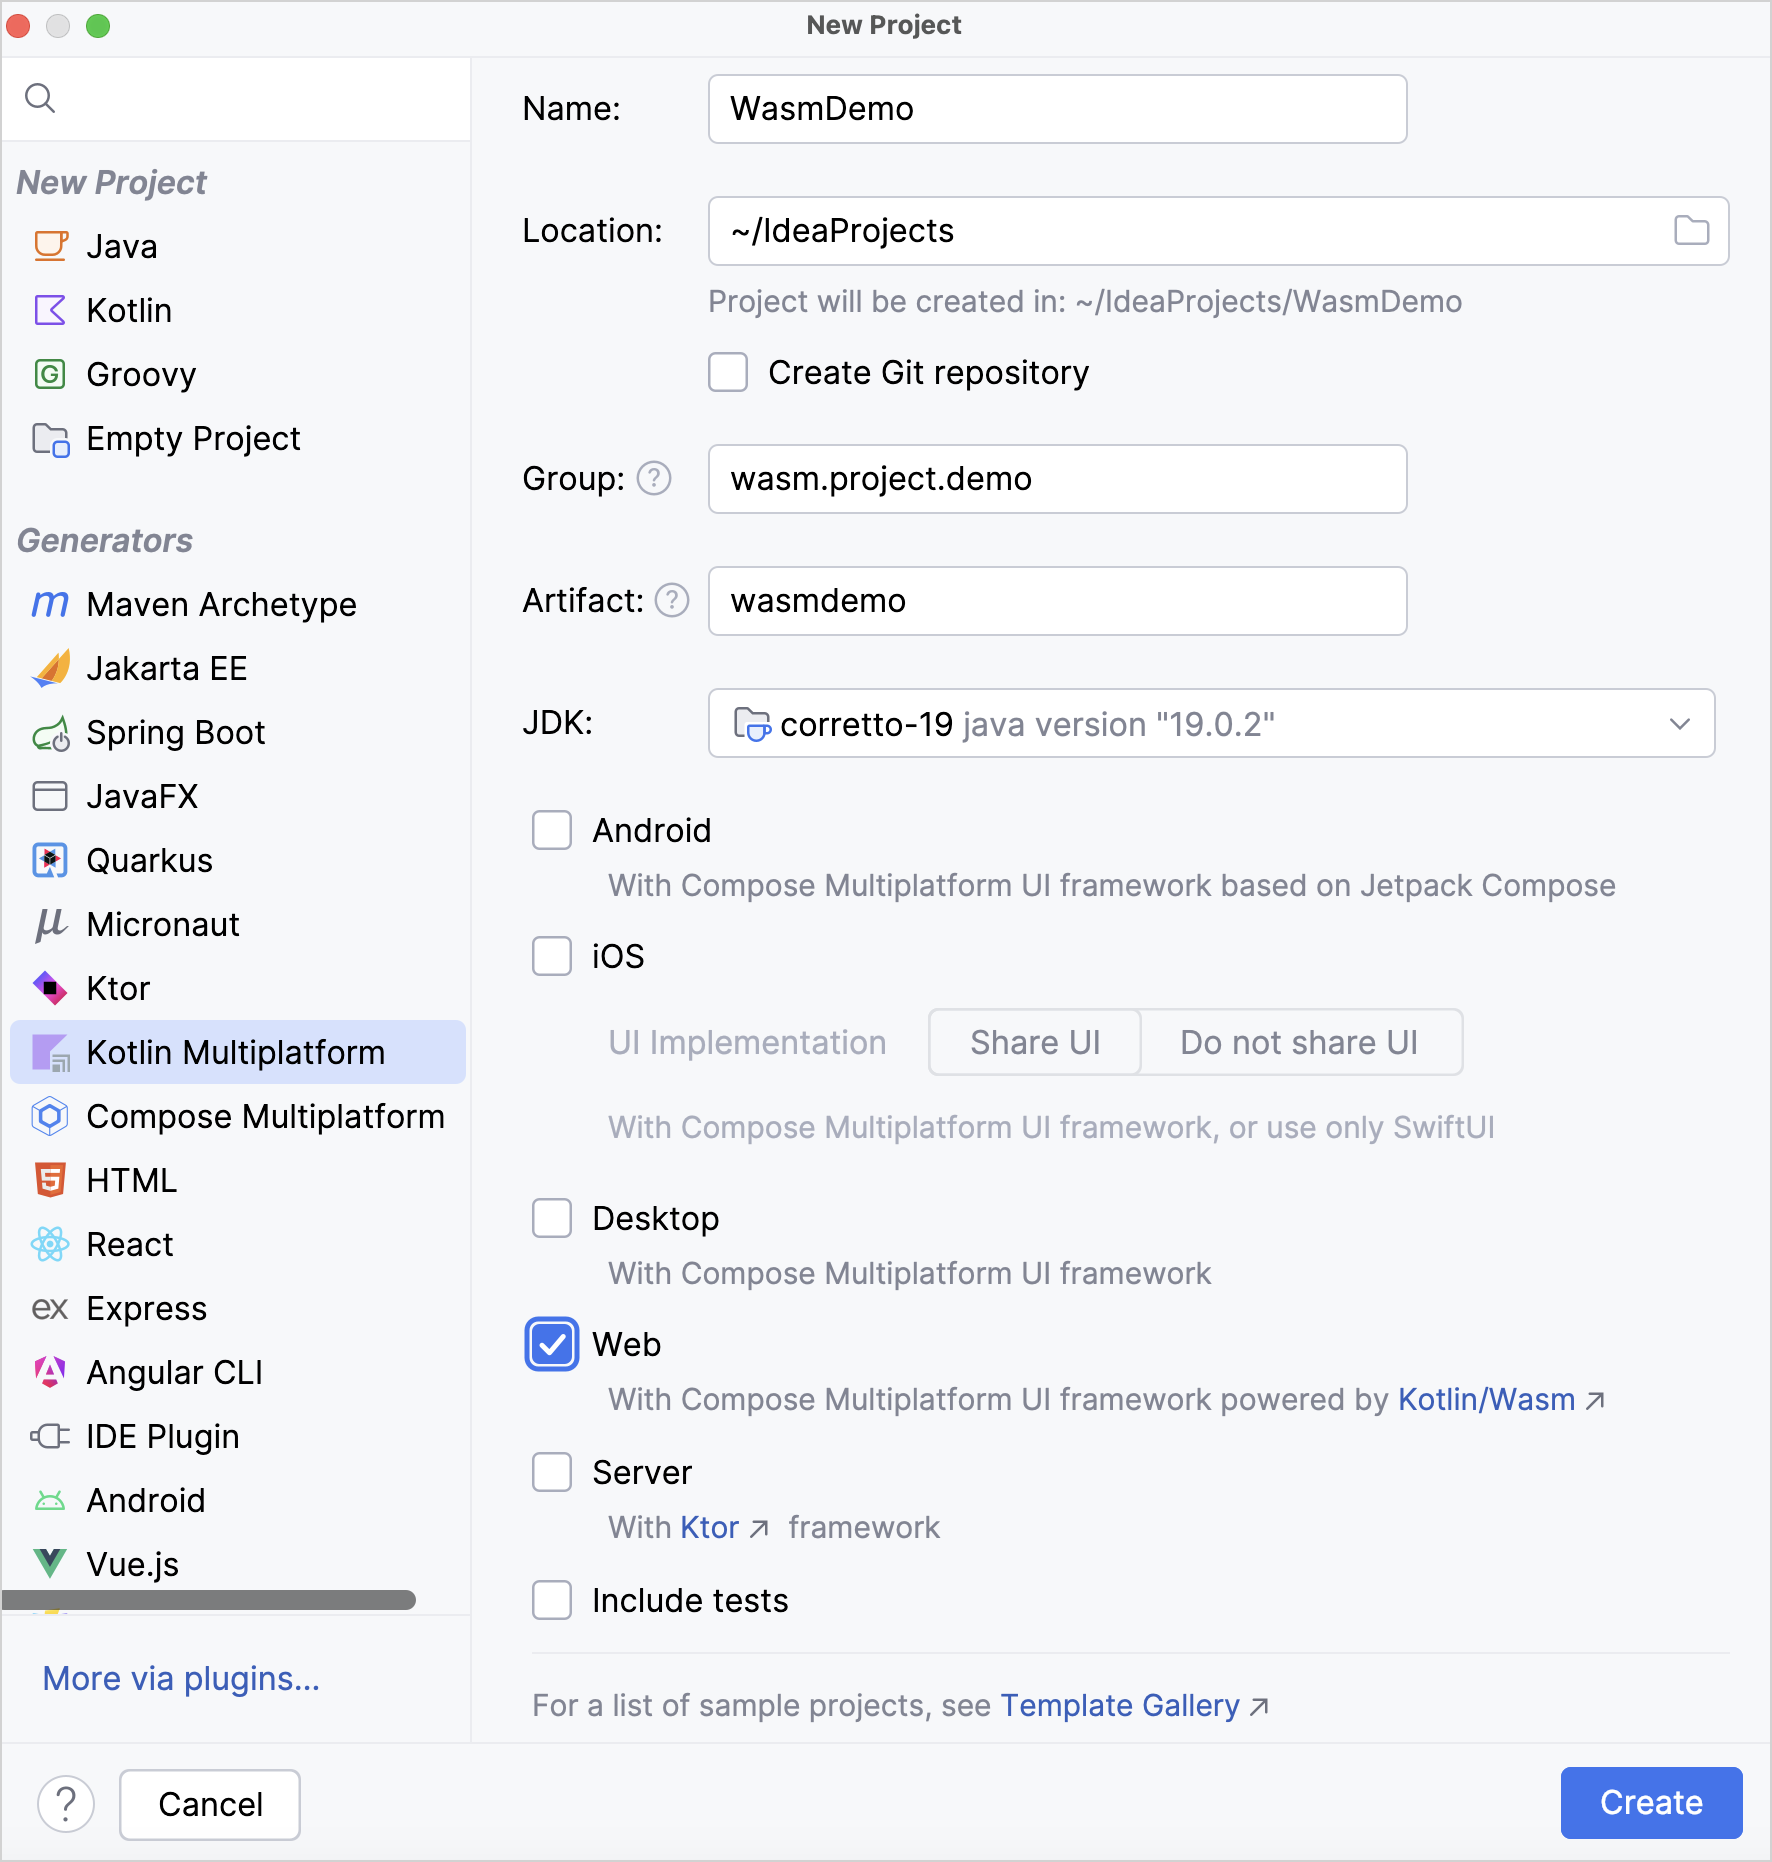
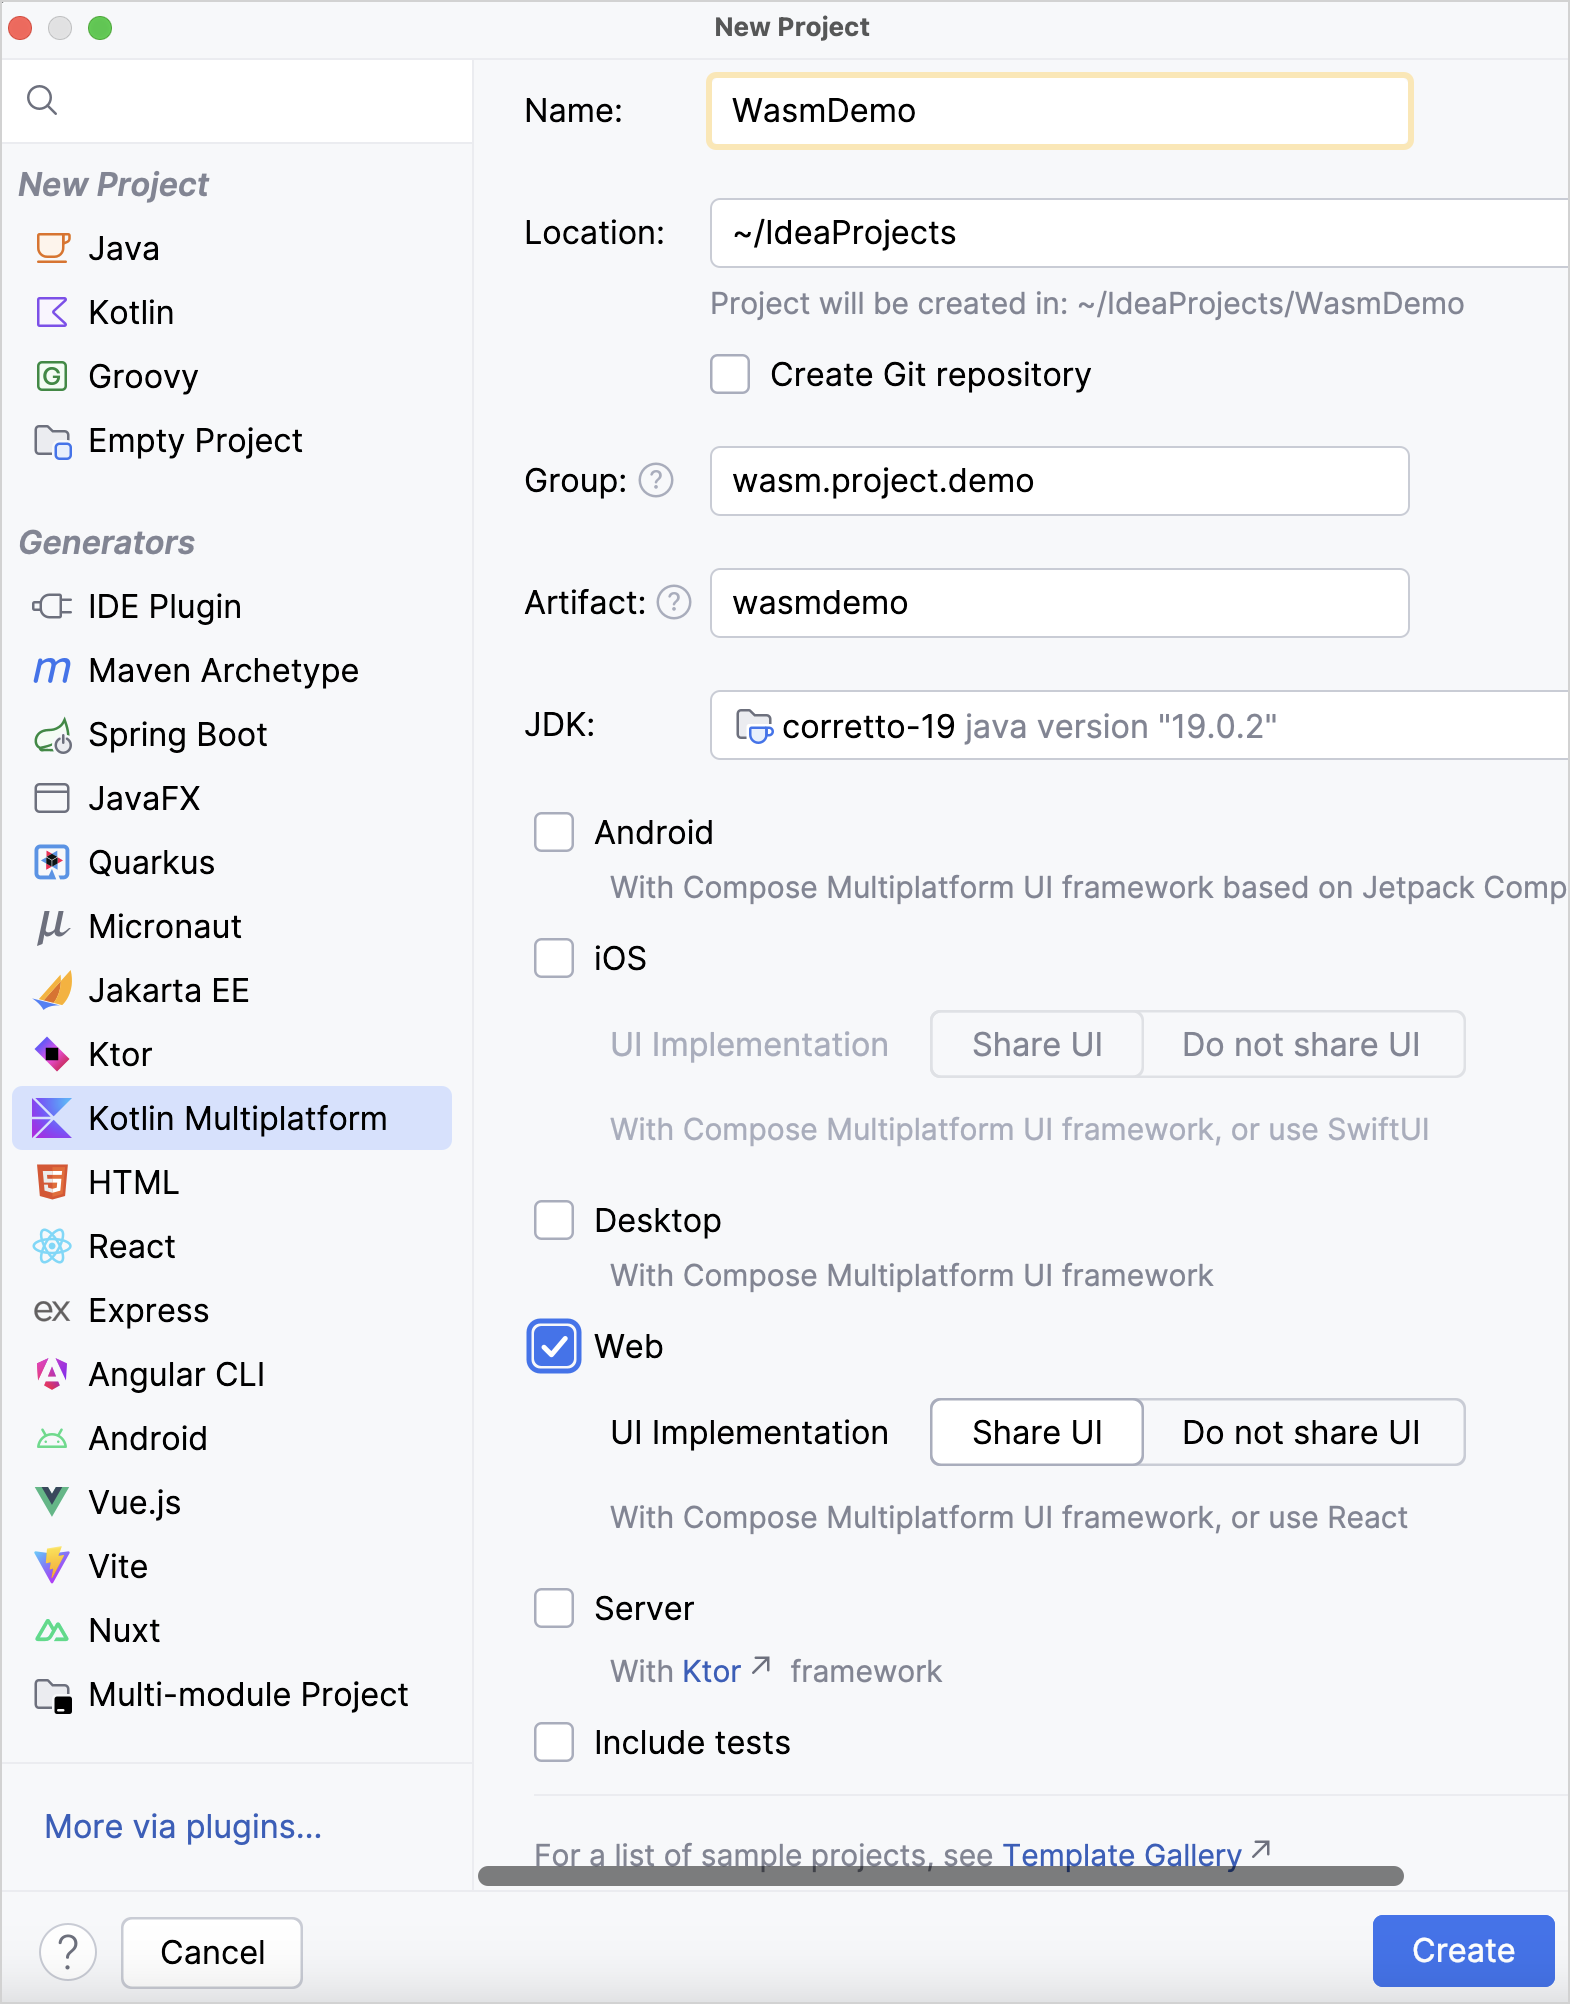
update: replace wizard screenshot

diff --git a/docs/topics/wasm/wasm-get-started.md b/docs/topics/wasm/wasm-get-started.md
@@ -25,7 +25,7 @@ app with [](wasm-overview.md) in IntelliJ IDEA and generate artifacts to publish
    >
    {style="note"}
 
-5. Select the **Web** target. Make sure that no other options are selected.
+5. Select the **Web** target and the **Share UI** tab. Make sure that no other options are selected.
 6. Click **Create**.
 
    ![Kotlin Multiplatform wizard](wasm-kmp-wizard.png){width=600}
